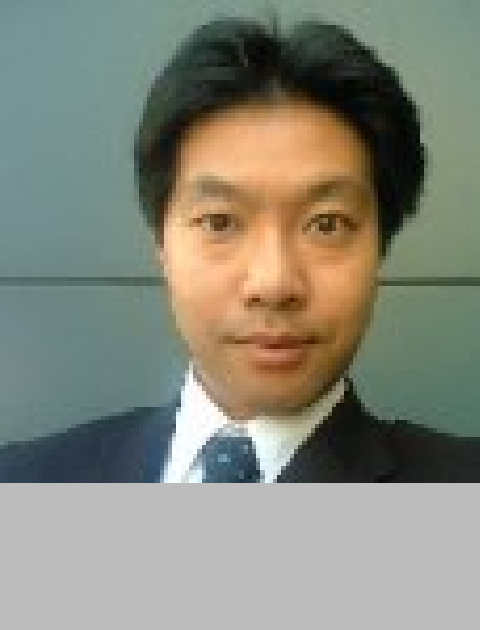
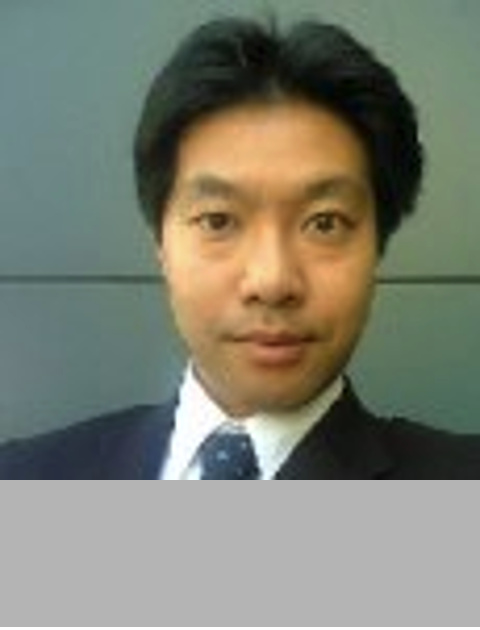
栗原さん写真修正

diff --git a/index.html b/index.html
@@ -228,7 +228,8 @@
                 <div class="col-lg-8">
                     <div class="section-title text-center">
                         <h2 class="title">EVENT SCHEDULE</h2>
-                        <p class="text">IBMのテクノロジーに関するセッションが盛りだくさん！オンラインですので、お好きなセッションを自由にご覧いただけます。</p>
+                        <p class="text">IBMのテクノロジーに関するセッションが盛りだくさん！<br>オンラインですので、お好きなセッションを自由にご覧いただけます。</p>
+                        <p class="text">イベント当日に参加できなくても安心！<br>参加登録いただいた方には、後日見逃し配信として視聴URLをご案内いたします。<br>（配信可能なセッションのみ）</p>
                     </div> <!-- section title -->
                 </div>
             </div> <!-- row -->
